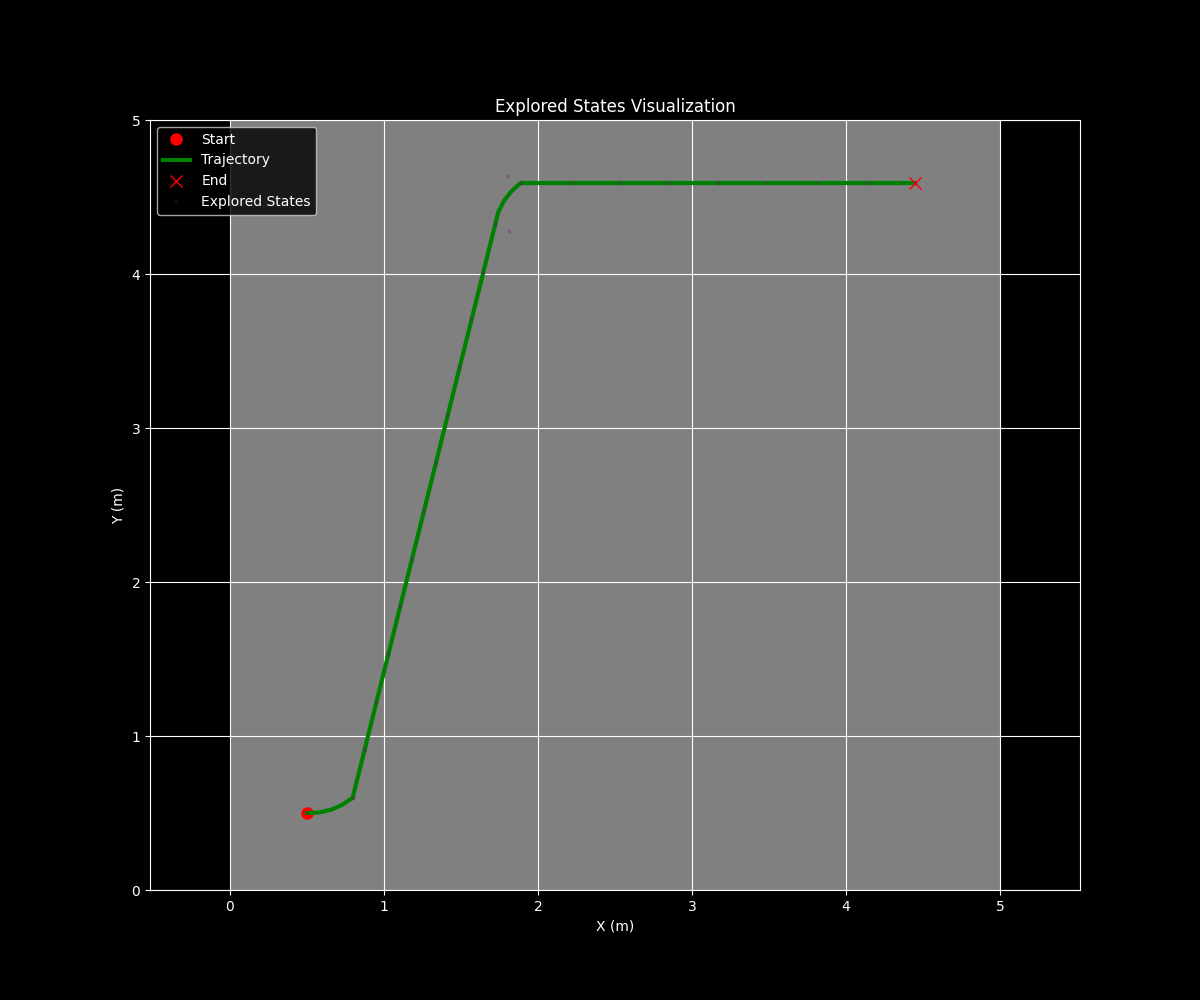
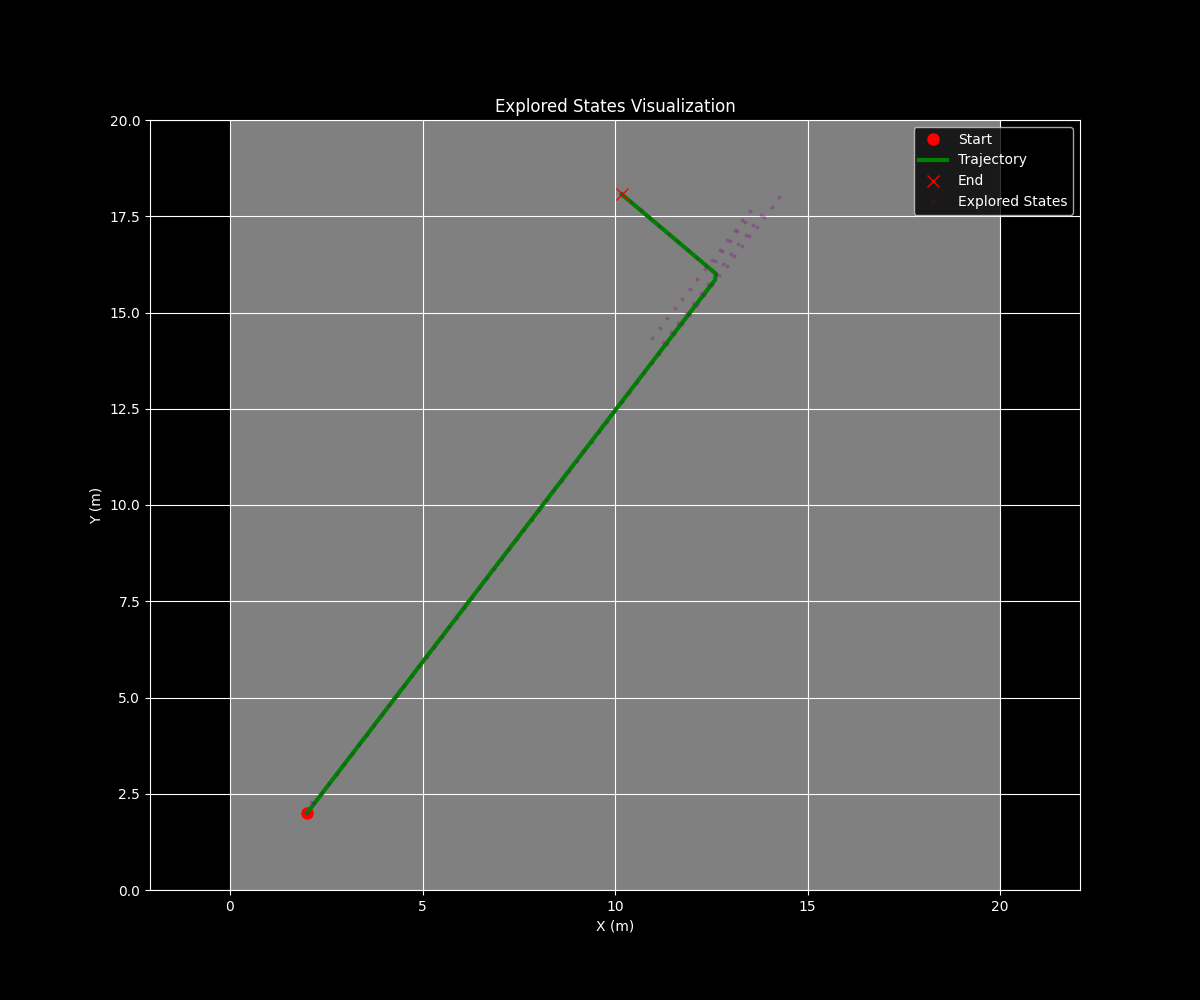
Adjust Gaussian filter sigma and tuning parameters for improved path planning performance

diff --git a/test_phase2.py b/test_phase2.py
@@ -129,8 +129,8 @@ def test_phase2() -> None:
     # Initialize the occupancy grid
     print("=== TESTING PHASE 2 ===")
     # print("=== PHASE 2: RACING LINE OPTIMIZATION ===")
-    grid_width = 5
-    grid_height = 5
+    grid_width = 20
+    grid_height = 20
     grid, start_pose, goal_pose = generate_grid(grid_width, grid_height, "corridor")
 
     car = AckermannSteeringCar(x=0.5, y=0.5, theta=0.0)
@@ -138,16 +138,18 @@ def test_phase2() -> None:
     sim = Simulation(car=car, grid=grid)
 
     # Intermediate Phase: Planning
-    integrated_controller = transition_to_phase2(sim)
+    integrated_controller = transition_to_phase2(sim, start_pose, goal_pose)
 
-    if integrated_controller:
-        # Phase 2: Execution
-        execute_phase2(sim, integrated_controller)
-    else:
-        print("Phase 2 planning failed!")
+    # if integrated_controller:
+    #     # Phase 2: Execution
+    #     execute_phase2(sim, integrated_controller)
+    # else:
+    #     print("Phase 2 planning failed!")
 
 
-def transition_to_phase2(simulation):
+def transition_to_phase2(
+    simulation, start_pose: Pose | None, goal_pose: Pose | None
+) -> Phase2Controller:
     """
     Transition from Phase 1 exploration to Phase 2 execution
 
@@ -166,13 +168,15 @@ def transition_to_phase2(simulation):
 
     # Step 2: Define start and goal for Phase 2
     # In a real competition, this might be the same start/finish line
-    start_pose = Pose(
-        x=simulation.car.x, y=simulation.car.y, theta=simulation.car.theta
-    )
+    if start_pose is None:
+        start_pose = Pose(
+            x=simulation.car.x, y=simulation.car.y, theta=simulation.car.theta
+        )
 
     # For demonstration, let's set a goal position
     # In practice, this might be the finish line or a lap completion point
-    goal_pose = Pose(x=4.5, y=4.5, theta=0.0)  # Adjust based on your track
+    if goal_pose is None:
+        goal_pose = Pose(x=4.5, y=4.5, theta=0.0)  # Adjust based on your track
 
     print(f"Planning from {start_pose} to {goal_pose}")
     fig, ax = plt.subplots(1, 1, figsize=(12, 10))

diff --git a/path_optimizing_algorithms/LatticeMotionPlanner.py b/path_optimizing_algorithms/LatticeMotionPlanner.py
@@ -87,8 +87,8 @@ class DiscreteLatticeMotionPlanner:
         wheelradius: float = 1,
         reference_point: str = "rear",
         primitive_duration: float = 0.5,
-        num_angle_discretizations: int = 64,  # Increased for smoother paths
-        heading_alignment_weight: float = 0.3,  # Heading alignment parameter
+        num_angle_discretizations: int = 128,  # Increased for smoother paths
+        heading_alignment_weight: float = 0.05,  # Heading alignment parameter
         straightness_bonus: float = -0.3,  # Bonus for consecutive straight motions
         goal_alignment_threshold: float = 0.3,
     ):
@@ -133,8 +133,8 @@ class DiscreteLatticeMotionPlanner:
         self.goal_tolerance = 1  # grid cells - much tighter tolerance
         self.goal_theta_tolerance = self.num_angles  # angle indices - tighter tolerance
 
-        self.helpful_turn_penalty: float = 0.5  # Penalty for turns toward goal
-        self.harmful_turn_penalty: float = 10.0  # Penalty for turns away from goal
+        self.helpful_turn_penalty: float = 0.25  # Penalty for turns toward goal
+        self.harmful_turn_penalty: float = 5.0  # Penalty for turns away from goal
         self.goal_alignment_threshold = goal_alignment_threshold
 
         # Heading alignment parameters
@@ -563,7 +563,7 @@ class DiscreteLatticeMotionPlanner:
         # Vehicle dimensions and safety margin (in meters)
         vehicle_length = 0.3
         vehicle_width = 0.15
-        safety_margin = 0.2
+        safety_margin = 0.1
         total_margin = safety_margin + max(vehicle_length, vehicle_width) / 2
 
         # Sample points along trajectory more densely

diff --git a/maps/OccupancyGrid.py b/maps/OccupancyGrid.py
@@ -240,7 +240,7 @@ class OccupancyGrid:
         It's useful to run after mapping to get a cleaner map for path planning.
         """
         # Apply Gaussian filter to smooth the probability grid
-        smoothed_grid = gaussian_filter(self.grid, sigma=1.0)
+        smoothed_grid = gaussian_filter(self.grid, sigma=0.5)
 
         # Threshold to get binary grid
         self.binary_grid = smoothed_grid > self.occupancy_threshold

diff --git a/pathfinding_algorithms/ConstantPPC.py b/pathfinding_algorithms/ConstantPPC.py
@@ -494,7 +494,6 @@ class ConstantPurePursuitController:
         self.actual_angles.append(actual_steering_angle)
         self.steering_states_history.append(self.current_state)
 
-        print(actual_steering_angle, self.angular_velocity)
         return actual_steering_angle, self.angular_velocity
 
     def visualize_control(
